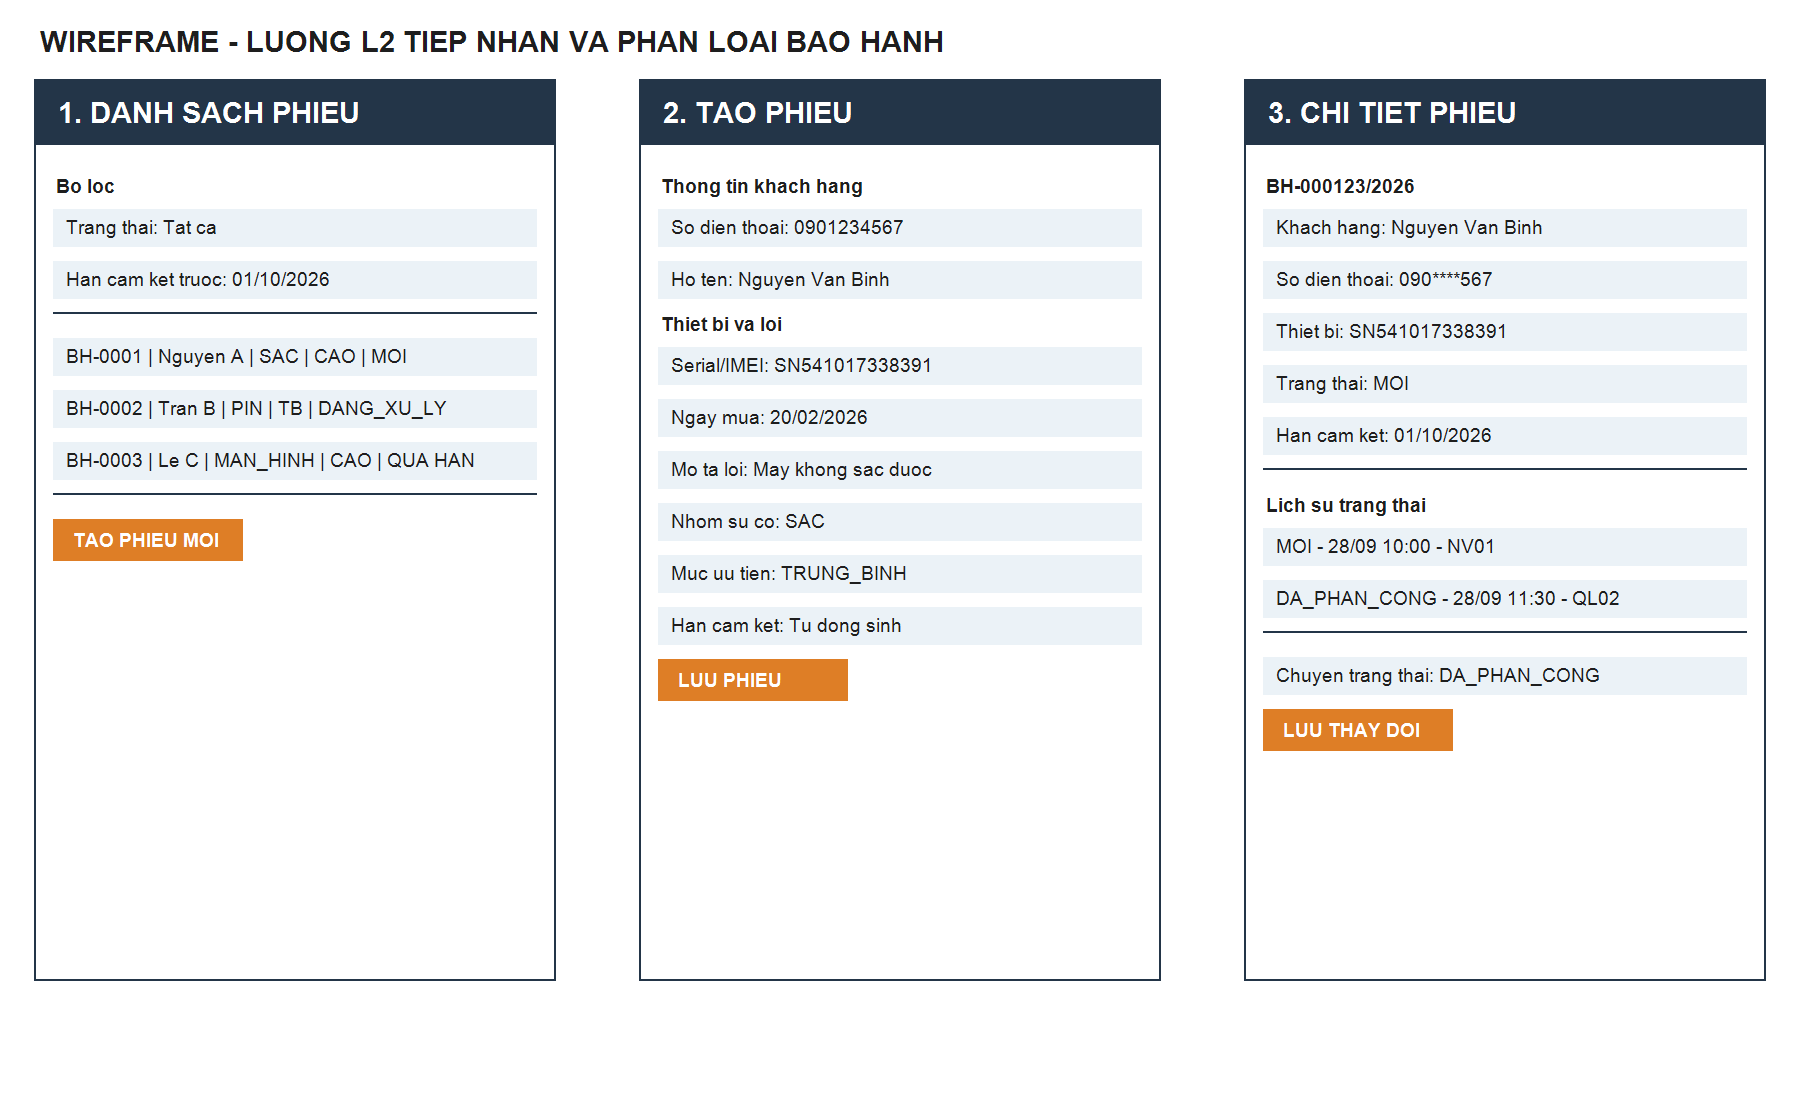
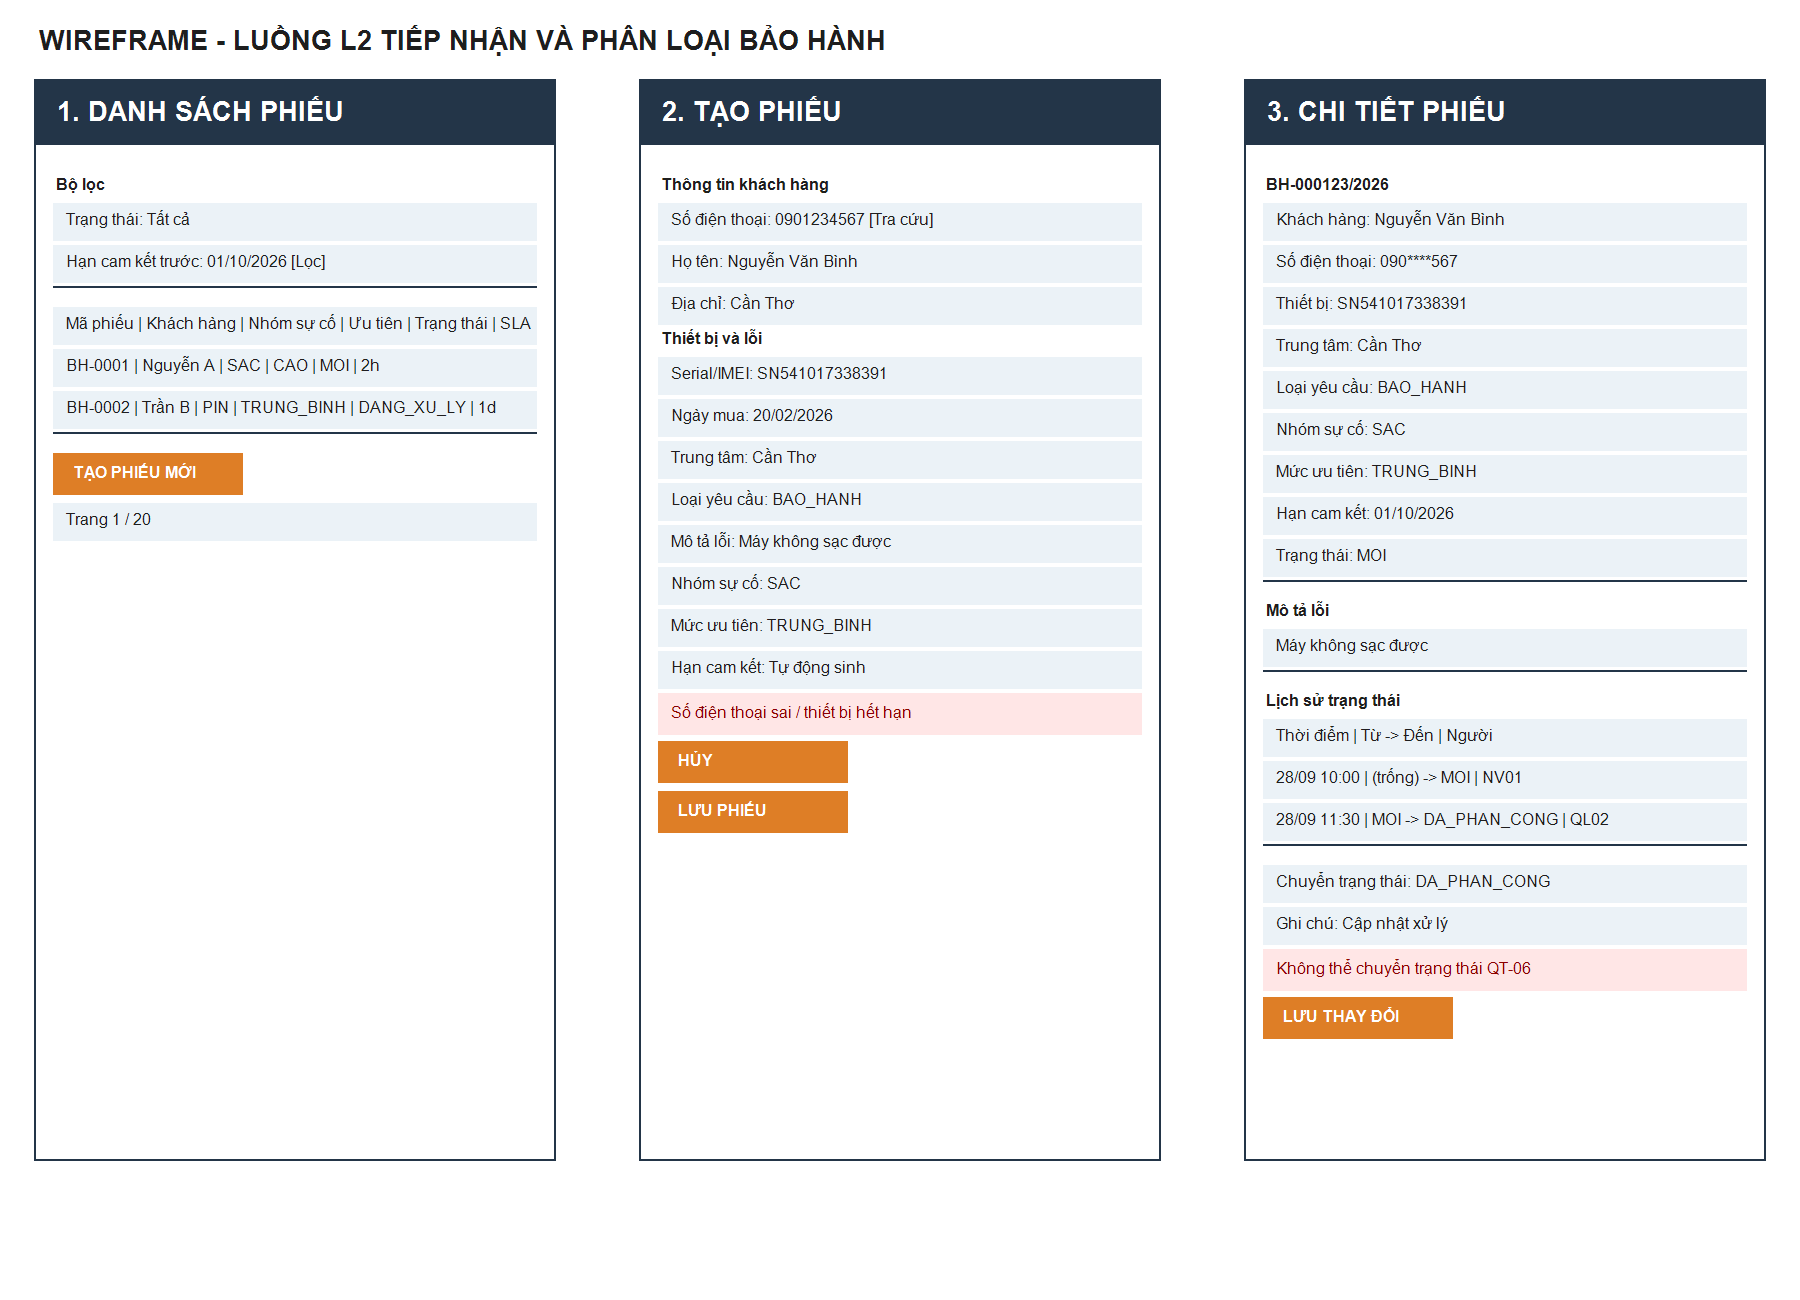
docs(buoi5): cap nhat kien truc mo hinh du lieu va wireframe

diff --git a/docs/architecture.md b/docs/architecture.md
@@ -1,21 +1,56 @@
 # Thiết kế kiến trúc - L2
 
-## Kiến trúc phân lớp
+## Sơ đồ thành phần và kiến trúc phân lớp
 
-1. **Presentation/API:** nhận HTTP request, kiểm tra schema, xác thực và trả mã trạng thái.
-2. **Application/Service:** điều phối use case, chuẩn hóa số điện thoại, sinh hạn cam kết và kiểm tra chuyển trạng thái.
-3. **Domain:** chứa quy tắc QT-01 đến QT-06, mô hình `Customer`, `Device`, `Ticket` và `TicketStatusLog`.
-4. **Persistence/Repository:** thực hiện truy vấn PostgreSQL, transaction và index theo các truy vấn L2.
-5. **PostgreSQL:** lưu dữ liệu giao dịch và lịch sử; không thuộc phạm vi là UI quản trị ngoài L2, dịch vụ SMS và module kho linh kiện.
+Hệ thống được mô tả bằng bốn lớp, đủ chi tiết để hiện thực và đủ gọn để đọc:
 
-API gọi Service; Service gọi Domain và Repository; Repository trao đổi với PostgreSQL. Domain không phụ thuộc Express để quy tắc có thể kiểm thử độc lập.
+```text
+HỆ THỐNG: Tiếp nhận và phân loại yêu cầu bảo hành (track SE)
++----------------------------------------------------------------+
+| LỚP TRÌNH BÀY                                                  |
+| [Trang tiếp nhận] [Danh sách phiếu] [Chi tiết phiếu]           |
++----------------------------------------------------------------+
+| v HTTP + JSON (hợp đồng API ở docs/api-contract.md)             |
++----------------------------------------------------------------+
+| LỚP NGHIỆP VỤ (SERVICE)                                       |
+| TicketService - tạo phiếu, kiểm quy tắc bắt buộc               |
+| ClassifyService - chọn nhóm sự cố và mức ưu tiên               |
+| WarrantyService - kiểm tra hạn bảo hành, sinh hạn cam kết     |
+| >>> TOÀN BỘ quy tắc QT-01..QT-06 nằm trong lớp này <<<         |
++----------------------------------------------------------------+
+| v gọi qua giao diện Repository                                 |
++----------------------------------------------------------------+
+| LỚP TRUY CẬP DỮ LIỆU                                          |
+| CustomerRepository DeviceRepository TicketRepository           |
+| IssueCategoryRepository StatusLogRepository                    |
++----------------------------------------------------------------+
+| v SQL                                                        |
++----------------------------------------------------------------+
+| LỚP LƯU TRỮ - PostgreSQL 16                                   |
+| customer, device, service_center, issue_category, ticket,      |
+| ticket_status_log                                              |
++----------------------------------------------------------------+
+CHÚ THÍCH: [ ] = màn hình; v = hướng phụ thuộc một chiều.
+NGOÀI PHẠM VI (WON'T): gửi SMS, đồng bộ kế toán, kho linh kiện,
+phân công kỹ thuật viên theo thuật toán và báo cáo toàn công ty.
+```
+
+| Lớp | Trách nhiệm | Không làm |
+|---|---|---|
+| **1. Presentation** | Controller nhận HTTP/JSON, kiểm tra dữ liệu đầu vào, xác thực vai trò và chuyển lỗi thành mã HTTP. | Không chứa SQL và không tự quyết định quy tắc bảo hành. |
+| **2. Business / Service** | `TicketService` điều phối use case, chứa QT-01 đến QT-06, mô hình miền và state machine của phiếu. | Không biết PostgreSQL lưu dữ liệu bằng câu SQL nào. |
+| **3. Repository / DAO** | `CustomerRepository`, `DeviceRepository`, `TicketRepository` đọc/ghi dữ liệu, transaction và truy vấn có index. | Không chứa quy tắc nghiệp vụ hoặc gọi ngược Controller. |
+| **4. Data store** | PostgreSQL bảo đảm PK, FK, UNIQUE, NOT NULL, CHECK và lưu lịch sử trạng thái. | Không gọi ngược lên Service. |
+
+Phụ thuộc chỉ đi một chiều: `Presentation -> Business/Service -> Repository -> PostgreSQL`. Domain rules nằm trong Business/Service; Repository chỉ làm việc với dữ liệu. Luồng tạo phiếu là: `POST /api/v1/tickets` -> `TicketService.create()` -> repository transaction -> `ticket` và `ticket_status_log` -> HTTP 201. Nếu thiết bị hết hạn, Service trả lỗi miền và Presentation chuyển thành HTTP 422; không lớp nào nhảy cóc.
 
 ## Lập luận lựa chọn
 
-- Vì **NFR1** yêu cầu tra cứu và danh sách dưới 2 giây với 10.000 phiếu, tôi chọn PostgreSQL với index trên `phone`, `status, due_date` và phân trang, đánh đổi là phải thiết kế index và cập nhật chúng khi dữ liệu thay đổi.
-- Vì **NFR2** yêu cầu 100% request được kiểm tra quyền và giới hạn theo trung tâm, tôi chọn lớp API kết hợp service kiểm tra phạm vi trung tâm, đánh đổi là mỗi use case cần thêm bước kiểm tra quyền và test riêng.
-- Vì **NFR3** yêu cầu thao tác lưu phiếu và lịch sử phải atomic, tôi chọn repository transaction cho một request, đánh đổi là transaction dài làm giảm throughput nếu sau này thêm thao tác ngoài database.
-- Vì **NFR4** yêu cầu thêm nhóm sự cố chỉ bằng dữ liệu cấu hình, tôi chọn bảng `issue_category` thay vì hard-code danh mục, đánh đổi là phải kiểm tra dữ liệu cấu hình và quản lý trạng thái active.
+- Vì **NFR1** yêu cầu danh sách phiếu phản hồi dưới 2 giây với 10.000 phiếu, tôi chọn phân trang ở Repository và index `(status, due_date)` thay vì tải toàn bộ rồi lọc ở Presentation; đánh đổi là tốn thêm dung lượng index và chi phí khi cập nhật phiếu.
+- Vì **NFR2** yêu cầu 100% request được kiểm tra vai trò và phạm vi trung tâm, tôi đặt xác thực ở Presentation và kiểm tra quyền nghiệp vụ ở Service thay vì tin vào dữ liệu từ giao diện; đánh đổi là mỗi use case phải có bước kiểm tra quyền và test riêng.
+- Vì **NFR3** yêu cầu tạo phiếu và log trạng thái phải atomic, tôi chọn một transaction trong Repository thay vì hai lần ghi độc lập; đánh đổi là transaction giữ kết nối lâu hơn nhưng tránh dữ liệu phiếu không có lịch sử.
+- Vì **NFR4** yêu cầu thêm nhóm sự cố hoặc loại yêu cầu không sửa mã nguồn xử lý, tôi chọn bảng `issue_category` kết hợp cột `request_type` làm cấu hình thay vì hard-code; đánh đổi là cần kiểm tra `is_active`, giá trị hợp lệ và dữ liệu cấu hình.
+- Tôi không thêm Redis cache hoặc Message Queue vì hiện không có NFR nào yêu cầu cache hoặc xử lý nền; bỏ chúng giúp prototype ít thành phần hơn và dễ kiểm thử, đánh đổi là chưa tối ưu cho tải lớn hoặc thông báo bất đồng bộ.
 
 ## Ngoài phạm vi
 

diff --git a/docs/wireframe.md b/docs/wireframe.md
@@ -4,14 +4,14 @@
 
 ```text
 +----------------------------------------------------------------+
-| DANH SACH PHIEU BAO HANH                                      |
-| Trang thai [Tat ca v]  Han cam ket truoc [dd/mm/yyyy] [Loc]   |
+| DANH SÁCH PHIẾU BẢO HÀNH                                      |
+| Trạng thái [Tất cả v]  Hạn cam kết trước [dd/mm/yyyy] [Lọc]   |
 +----------------------------------------------------------------+
-| Ma phieu | Khach hang | Nhom su co | Uu tien | Trang thai | SLA|
-| BH-0001  | Nguyen A   | SAC        | CAO     | MOI        | 2h |
-| BH-0002  | Tran B     | PIN        | TB      | DANG_XU_LY | 1d |
+| Mã phiếu | Khách hàng | Nhóm sự cố | Ưu tiên | Trạng thái | SLA|
+| BH-0001  | Nguyễn A   | SAC        | CAO     | MOI        | 2h |
+| BH-0002  | Trần B     | PIN        | TRUNG_BINH | DANG_XU_LY | 1d |
 +----------------------------------------------------------------+
-| [Tao phieu moi]                                  Trang 1 / 20 |
+| [Tạo phiếu mới]                                  Trang 1 / 20 |
 +----------------------------------------------------------------+
 ```
 
@@ -19,15 +19,17 @@
 
 ```text
 +----------------------------------------------------------------+
-| TAO PHIEU BAO HANH                                             |
-| So dien thoai [________________] [Tra cuu]                     |
-| Ho ten [____________________]  Dia chi [___________________]  |
-| Thiet bi / Serial [____________________________]               |
-| Ngay mua [__/__/____]  Trung tam [____________ v]              |
-| Mo ta loi [_______________________________________________]    |
-| Nhom su co [____________ v]  Muc uu tien [___________ v]       |
-| Han cam ket [tu dong sinh]                                     |
-|                         [Huy] [Luu phieu]                      |
+| TẠO PHIẾU BẢO HÀNH                                             |
+| Số điện thoại [________________] [Tra cứu]                     |
+| Họ tên [____________________]  Địa chỉ [___________________]  |
+| Thiết bị / Serial [____________________________]               |
+| Ngày mua [__/__/____]  Trung tâm [____________ v]              |
+| Loai yeu cau [BAO_HANH v]                                      |
+| Mô tả lỗi [_______________________________________________]    |
+| Nhóm sự cố [____________ v]  Mức ưu tiên [___________ v]       |
+| Hạn cam kết [tự động sinh]                                     |
+| [LỖI] Số điện thoại không hợp lệ / thiết bị hết hạn bảo hành   |
+|                         [Hủy] [Lưu phiếu]                      |
 +----------------------------------------------------------------+
 ```
 
@@ -35,20 +37,34 @@
 
 ```text
 +----------------------------------------------------------------+
-| CHI TIET PHIEU BH-000123/2026                 [Cap nhat]       |
-| Khach hang | So dien thoai che | Thiet bi | Trung tam          |
-| Nhom su co | Uu tien | Han cam ket | Trang thai                |
+| CHI TIẾT PHIẾU BH-000123/2026                 [Cập nhật]       |
+| Khách hàng | Số điện thoại che | Thiết bị | Trung tâm          |
+| Nhóm sự cố | Ưu tiên | Hạn cam kết | Trạng thái                |
 +----------------------------------------------------------------+
-| Mo ta loi                                                        |
-| May khong sac duoc                                             |
+| Mô tả lỗi                                                        |
+| Máy không sạc được                                             |
 +----------------------------------------------------------------+
-| LICH SU TRANG THAI                                             |
-| Thoi diem           Tu trang thai -> Den trang thai | Nguoi   |
-| 28/09 10:00         (trong) -> MOI                 | NV01    |
+| LỊCH SỬ TRẠNG THÁI                                             |
+| Thời điểm           Từ trạng thái -> Đến trạng thái | Người   |
+| 28/09 10:00         (trống) -> MOI                 | NV01    |
 | 28/09 11:30         MOI -> DA_PHAN_CONG            | QL02    |
 +----------------------------------------------------------------+
-| Chuyen trang thai [________ v] Ghi chu [____________] [Luu]    |
+| Chuyển trạng thái [________ v] Ghi chú [____________] [Lưu]    |
+| [LỖI] Không thể chuyển trạng thái theo vòng đời QT-06         |
 +----------------------------------------------------------------+
 ```
 
-Mọi trường trong ba màn hình đều có trong mô hình dữ liệu hoặc là giá trị dẫn xuất từ `ticket_status_log`; tên gọi thống nhất với bảng thuật ngữ trong SRS.
+## Đối chiếu màn hình - mô hình dữ liệu - Use Case
+
+| Màn hình/trường | Cột hoặc giá trị nguồn | Use Case | Luồng lỗi |
+|---|---|---|---|
+| Số điện thoại | `customer.phone` | UC1, UC2 | Sai định dạng hoặc không tìm thấy khách |
+| Họ tên, địa chỉ | `customer.full_name`, `customer.address` | UC2 | Thiếu họ tên |
+| Serial/IMEI, ngày mua | `device.serial_no`, `device.purchase_date` | UC3 | Serial đã thuộc khách khác |
+| Loại yêu cầu | `ticket.request_type` | UC3 | Giá trị chưa được cấu hình |
+| Mô tả lỗi | `ticket.issue_desc` | UC3 | Bỏ trống mô tả |
+| Nhóm sự cố, mức ưu tiên | `ticket.category_id`, `ticket.priority` | UC4 | Giá trị không hợp lệ |
+| Hạn cam kết, trạng thái | `ticket.due_date`, `ticket.status` | UC3, UC5, UC6 | Thiết bị hết hạn hoặc chuyển trạng thái sai |
+| Lịch sử chuyển trạng thái | `ticket_status_log` | UC6 | Không ghi được log thì rollback transaction |
+
+Mọi trường bắt buộc của `ticket` đều được nhập trên màn hình hoặc hệ thống tự sinh (`ticket_code`, `status`, `received_at`, `due_date`).

diff --git a/docs/srs.md b/docs/srs.md
@@ -22,6 +22,7 @@ Mekong Mobile đang tiếp nhận yêu cầu bảo hành bằng phiếu giấy n
 | Mức ưu tiên | CAO, TRUNG_BINH hoặc THAP; dùng để sinh hạn cam kết. |
 | Hạn cam kết | Thời điểm chậm nhất phải hoàn tất phiếu theo mức ưu tiên. |
 | Trạng thái phiếu | MOI, DA_PHAN_CONG, DANG_XU_LY, CHO_LINH_KIEN, HOAN_TAT, DA_DONG hoặc DA_HUY. |
+| Loại yêu cầu | Loại nghiệp vụ của phiếu; hiện tại mặc định là BAO_HANH, có thể mở rộng thêm DOI_TRA mà không đổi cấu trúc xử lý chính. |
 | Nhân viên tiếp nhận | Người nhập và cập nhật thông tin phiếu tại trung tâm bảo hành. |
 | Quản lý trung tâm | Người theo dõi phiếu và xử lý các trường hợp cần phê duyệt. |
 
@@ -56,6 +57,7 @@ Mekong Mobile đang tiếp nhận yêu cầu bảo hành bằng phiếu giấy n
 | FR3 | Hệ thống phải cho phép tạo phiếu với khách hàng, thiết bị, mô tả lỗi, nhóm sự cố và mức ưu tiên; phiếu mới có mã duy nhất và trạng thái MOI. |
 | FR4 | Hệ thống phải sinh hạn cam kết theo QT-04: CAO 24 giờ, TRUNG_BINH 72 giờ, THAP 120 giờ; việc tính ngày làm việc phải loại Chủ nhật. |
 | FR5 | Hệ thống phải cho phép xem danh sách phiếu theo trạng thái và hạn cam kết, đồng thời ghi mọi chuyển trạng thái vào lịch sử. |
+| FR6 | Hệ thống phải lưu `request_type` với giá trị mặc định `BAO_HANH`; khi mở rộng loại yêu cầu mới, chỉ cần thêm giá trị cấu hình và nhóm sự cố liên quan, không sửa các bảng lịch sử. |
 
 ### Tiêu chí chấp nhận cho các story MUST
 
@@ -72,7 +74,7 @@ Mekong Mobile đang tiếp nhận yêu cầu bảo hành bằng phiếu giấy n
 | NFR1 | Hiệu năng | API tra cứu khách và danh sách phiếu phải trả phản hồi trong dưới 2 giây với 10.000 phiếu và 65.000 khách trên máy phát triển có tối thiểu 8 GB RAM. |
 | NFR2 | Bảo mật | 100% request tới API nghiệp vụ phải được kiểm tra vai trò; nhân viên chỉ được xem dữ liệu trung tâm của mình và số điện thoại phải che 4 số cuối. |
 | NFR3 | Tin cậy | 100% thao tác tạo hoặc chuyển trạng thái phiếu phải nằm trong transaction; không tạo quá một phiếu khi client gửi lại cùng request id. |
-| NFR4 | Bảo trì | Thêm một nhóm sự cố mới chỉ cần thêm một dòng dữ liệu cấu hình, không sửa mã nguồn xử lý và không thay đổi API hiện có. |
+| NFR4 | Bảo trì | Thêm nhóm sự cố hoặc loại yêu cầu mới chỉ cần thêm dữ liệu cấu hình (`issue_category`, `request_type`), không sửa mã nguồn xử lý và không thay đổi API hiện có. |
 
 ## 5. Ràng buộc và quy tắc nghiệp vụ
 
@@ -83,6 +85,7 @@ Mekong Mobile đang tiếp nhận yêu cầu bảo hành bằng phiếu giấy n
 - **QT-06:** Phiếu chỉ chuyển theo vòng đời hợp lệ; mọi lần chuyển phải ghi `ticket_status_log`, không quay lại trạng thái trước.
 - **QT-13:** Không xóa vật lý phiếu, chỉ đánh dấu ngừng sử dụng và giữ lịch sử.
 - **QT-14/QT-15:** Người dùng chỉ xem dữ liệu đúng đơn vị; số điện thoại hiển thị dạng che trừ quản lý và ban giám đốc.
+- **Mở rộng có kiểm soát:** `request_type` hiện nhận `BAO_HANH`; loại `DOI_TRA` là hướng mở rộng tương lai, chưa nằm trong phạm vi hiện thực BT1.
 
 ## 6. Bảng truy vết yêu cầu
 
@@ -93,3 +96,4 @@ Mekong Mobile đang tiếp nhận yêu cầu bảo hành bằng phiếu giấy n
 | FR3 | Tạo phiếu với dữ liệu bắt buộc và trạng thái MOI | US3 | UC3 | MUST | TC05, TC06 |
 | FR4 | Sinh hạn cam kết theo mức ưu tiên | US5 | UC4 | MUST | TC07, TC08 |
 | FR5 | Xem và cập nhật trạng thái kèm lịch sử | US6, US7 | UC5, UC6 | SHOULD | TC09, TC10 |
+| FR6 | Lưu loại yêu cầu để mở rộng nghiệp vụ | US3 | UC3 | SHOULD | TC11 |
